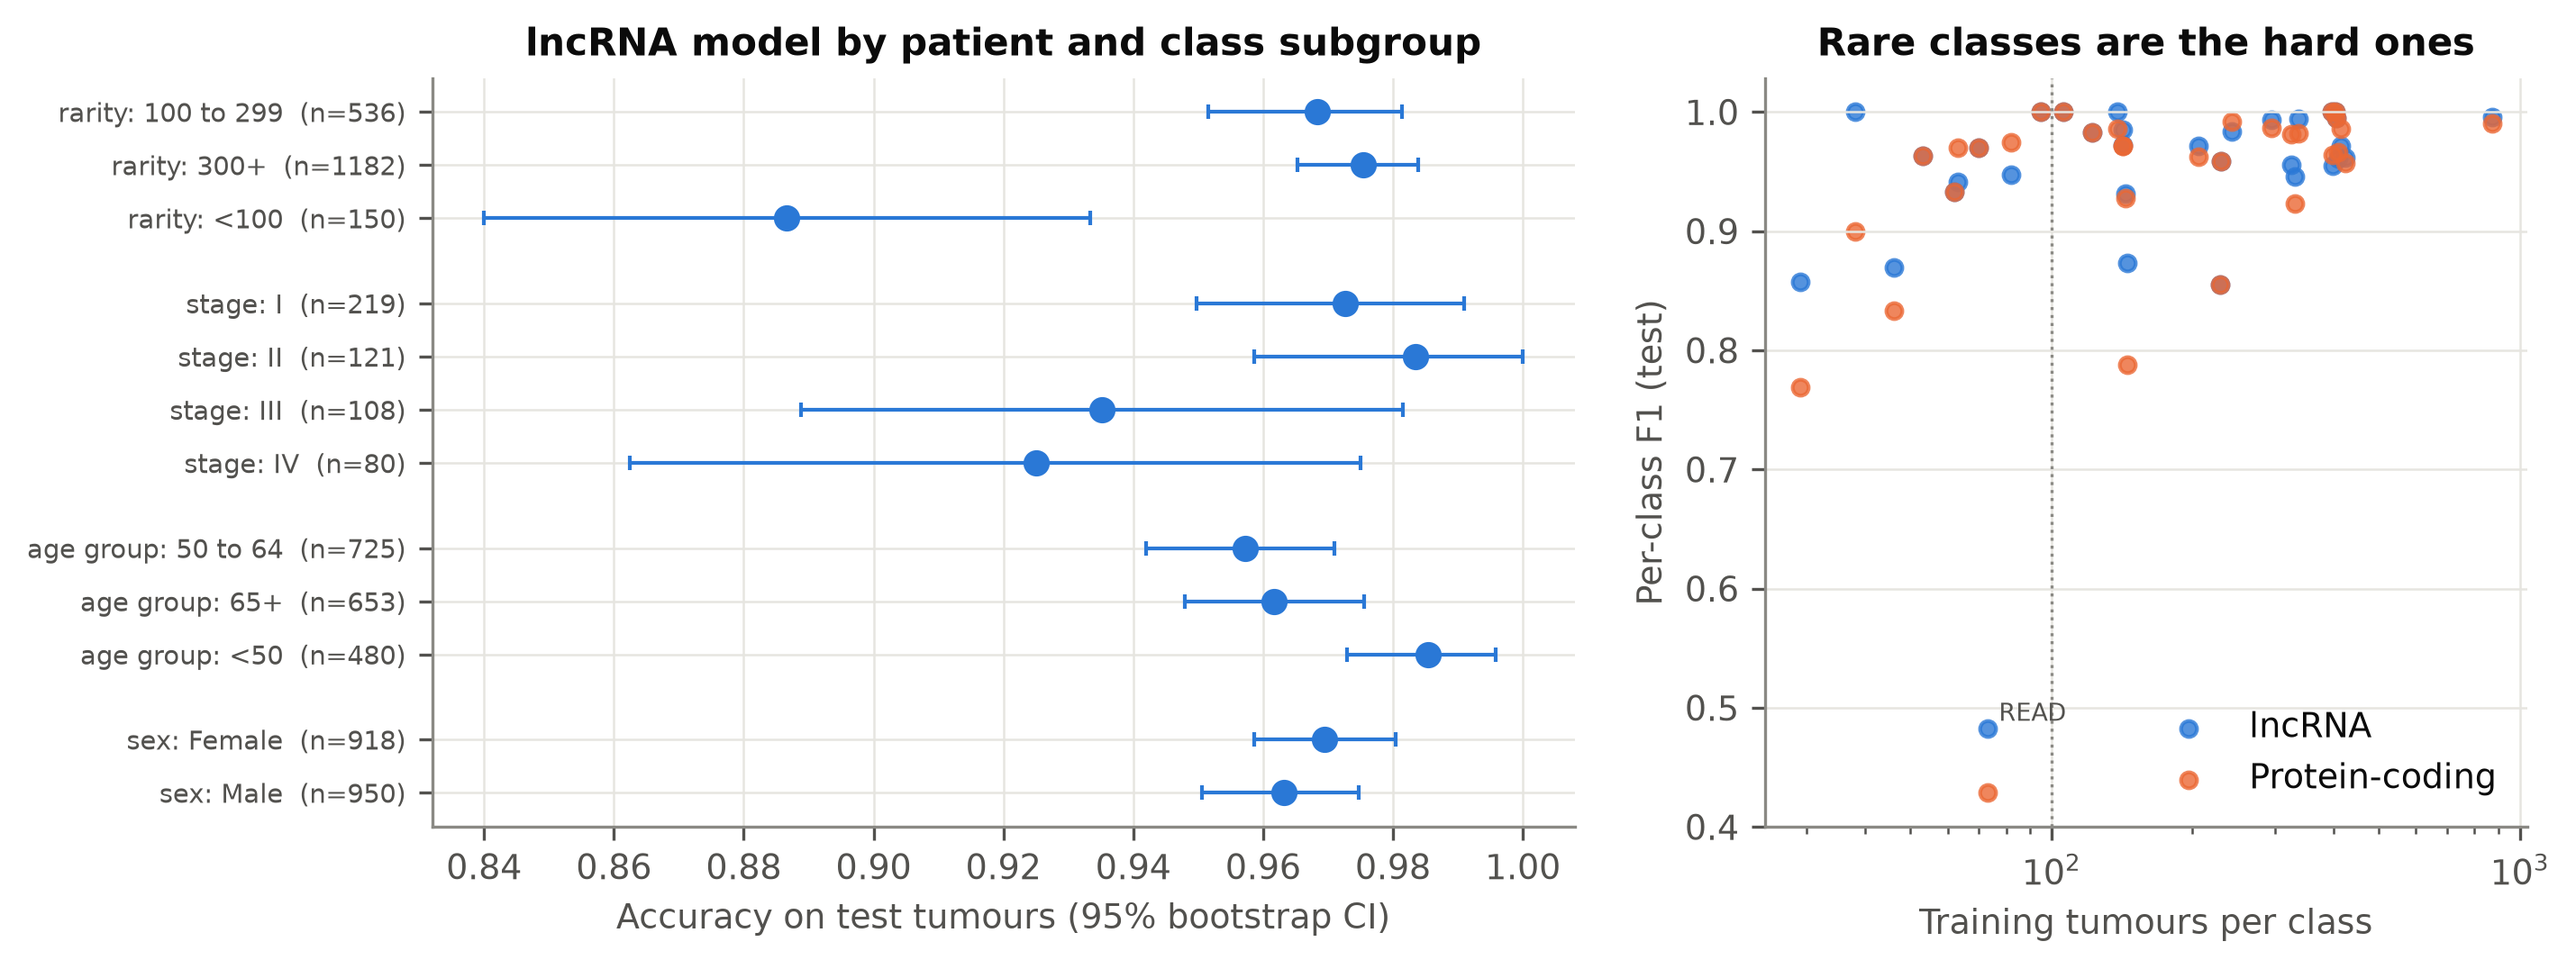
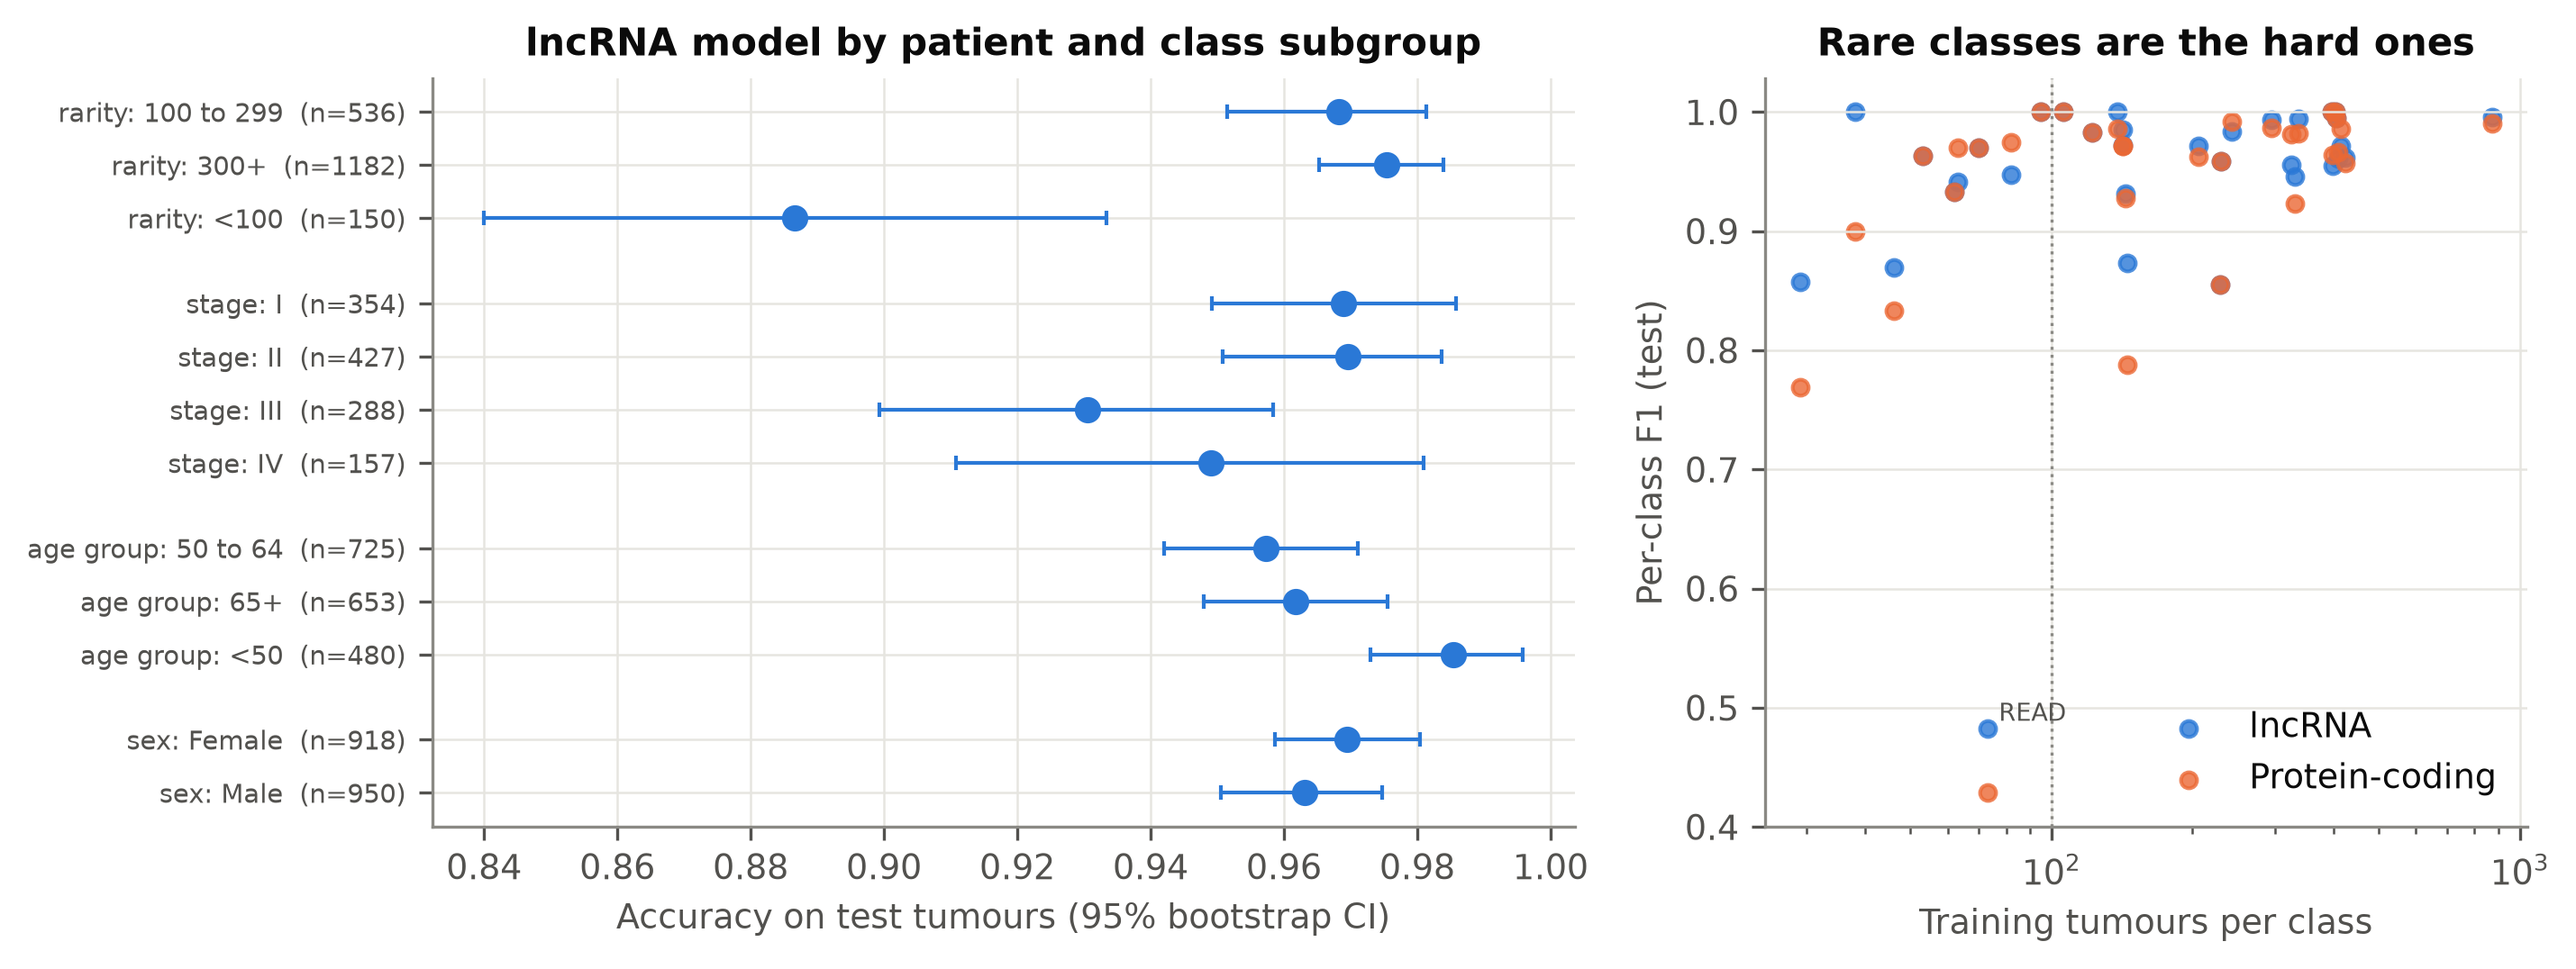
Fix stage parsing that dropped sub-staged tumours; correct the MET500 comparison
"Stage IIIA" and similar failed the old pattern, so only 528 of 1,868 test tumours had a
stage. With 1,226 parsed, stage III is 0.931 and stage IV 0.949 (was 0.935 and 0.925).
The MET500 paragraph compared against macro-F1 and the lncRNA top-3; the coding model's
own test accuracy is 96% (top-3 99.5%).

diff --git a/scripts/09_subgroups.py b/scripts/09_subgroups.py
@@ -45,9 +45,14 @@ def read_clinical(path) -> pd.DataFrame:
     clin["age_group"] = pd.cut(
         clin["age_at_initial_pathologic_diagnosis"], AGE_BINS, labels=AGE_LABELS, right=False
     ).astype(object)
-    stage = clin["ajcc_pathologic_tumor_stage"].astype(str).str.extract(r"Stage (IV|III|II|I)\b")[0]
+    stage = parse_stage(clin["ajcc_pathologic_tumor_stage"])
     clin["stage"] = stage.fillna("Not reported")
     return clin[["sex", "age_group", "stage"]]
+
+
+def parse_stage(raw: pd.Series) -> pd.Series:
+    """'Stage IIIA' -> 'III'; sub-stages collapse to their main stage, anything else is NaN."""
+    return raw.astype(str).str.extract(r"^Stage (IV|III|II|I)[ABC]?\d?$")[0]
 
 
 def group_metrics(y: np.ndarray, proba: np.ndarray, n_classes: int, seed: int) -> dict[str, float]:

diff --git a/tests/test_subgroups.py b/tests/test_subgroups.py
@@ -1,0 +1,20 @@
+import importlib.util
+from pathlib import Path
+
+import pandas as pd
+
+spec = importlib.util.spec_from_file_location(
+    "subgroups", Path(__file__).parents[1] / "scripts" / "09_subgroups.py"
+)
+subgroups = importlib.util.module_from_spec(spec)
+spec.loader.exec_module(subgroups)
+
+
+def test_sub_stages_collapse_to_main_stage():
+    raw = pd.Series(["Stage I", "Stage IIIA", "Stage IVB", "Stage IIC", "Stage IA"])
+    assert subgroups.parse_stage(raw).tolist() == ["I", "III", "IV", "II", "I"]
+
+
+def test_non_stages_are_missing():
+    raw = pd.Series(["Stage X", "Stage 0", "IS", "I/II NOS", "[Discrepancy]", None])
+    assert subgroups.parse_stage(raw).isna().all()

diff --git a/MODEL_CARD.md b/MODEL_CARD.md
@@ -35,15 +35,15 @@ Research prototype. Not a medical device and not validated for clinical use.
 | Age under 50 | 480 | 0.985 (0.973 to 0.996) | 0.012 |
 | Age 50 to 64 | 725 | 0.957 (0.942 to 0.971) | 0.015 |
 | Age 65 and over | 653 | 0.962 (0.948 to 0.975) | 0.016 |
-| AJCC stage I | 219 | 0.973 (0.950 to 0.991) | 0.017 |
-| AJCC stage II | 121 | 0.983 (0.959 to 1.000) | 0.014 |
-| AJCC stage III | 108 | 0.935 (0.889 to 0.981) | 0.034 |
-| AJCC stage IV | 80 | 0.925 (0.862 to 0.975) | 0.047 |
+| AJCC stage I | 354 | 0.969 (0.949 to 0.986) | 0.014 |
+| AJCC stage II | 427 | 0.970 (0.951 to 0.984) | 0.020 |
+| AJCC stage III | 288 | 0.931 (0.899 to 0.958) | 0.034 |
+| AJCC stage IV | 157 | 0.949 (0.911 to 0.981) | 0.037 |
 | Class with 300+ training tumours | 1,182 | 0.975 (0.965 to 0.984) | 0.009 |
 | Class with 100 to 299 training tumours | 536 | 0.968 (0.951 to 0.981) | 0.017 |
 | Class with fewer than 100 training tumours | 150 | 0.887 (0.840 to 0.933) | 0.073 |
 
-The clear weakness is rare cancer types: accuracy drops by about nine points and the model is over-confident on them. Late-stage tumours are somewhat harder, with wide intervals. No sex difference is detectable.
+The clear weakness is rare cancer types: accuracy drops by about nine points and the model is over-confident on them. Stage III tumours are somewhat harder (0.931 against 0.97 for stages I and II); stage IV sits in between, with a wide interval. No sex difference is detectable.
 
 ## Unseen sites
 
@@ -86,7 +86,7 @@ An empty set is an abstention; among non-empty LAC sets at α = 0.10, 98.8% cont
 - Cancers of the same organ (colon vs rectum, oesophagus vs stomach) are not reliably separated; this reflects biology as much as the model.
 - Coverage guarantees assume test data are exchangeable with the calibration data, which the metastases result shows does not hold under shift.
 - Random test splits share hospital sites with the training data; the held-out-site estimate above is the one to quote for a new centre.
-- Clinical metadata used for subgroups are missing for many patients (stage for 1,340 of 1,868 test tumours).
+- Clinical metadata used for subgroups are missing for many patients (stage for 642 of 1,868 test tumours).
 
 ## Intended use
 

diff --git a/README.md b/README.md
@@ -201,7 +201,8 @@ uses these thresholds.
 ![conformal](results/figures/fig8_conformal.png)
 
 **Subgroups** (`scripts/09_subgroups.py`). Accuracy is the same for women and men and across
-age groups. It is lower for stage III and IV tumours (0.935 and 0.925, wide intervals) and
+age groups. It is lower for stage III and IV tumours (0.931 and 0.949, against 0.969 and 0.970
+for stages I and II; intervals overlap) and
 clearly lower for cancer types with fewer than 100 training tumours: 0.887 against 0.975 for
 types with 300 or more, with an expected calibration error of 0.073 against 0.009. Rare
 classes are where the model is both less accurate and over-confident.
@@ -236,13 +237,13 @@ of batch effects.
 holds RNA-seq of 437 patients' metastatic biopsies with the primary site recorded, from
 another institution, with capture and poly-A libraries and FPKM quantification. Its public
 matrix contains none of the 14,043 lncRNAs in this project's universe, so the lncRNA model
-cannot be tested on it: given no informative input, its conformal sets are all empty, which
-is the intended behaviour, and its top-1 accuracy is at chance. The protein-coding model,
+cannot be tested on it: with every lncRNA missing its input carries no information, its
+conformal sets are all empty and its top-1 accuracy is at chance. The protein-coding model,
 with 18,196 of its 18,907 genes present, recovers the primary site of 66% of patients
-(95% CI 61 to 71%) and places it in the top three for 82%, against 93% and 99.6% on the
+(95% CI 61 to 71%) and places it in the top three for 82%, against 96% and 99.5% on the
 TCGA test split. Poly-A and capture libraries score alike (67% and 63%). Two lessons: a
 lncRNA classifier is only usable where the quantification pipeline reports lncRNAs, and an
-independent metastatic cohort costs the coding model about a quarter of its accuracy.
+independent metastatic cohort costs the coding model about a third of its accuracy.
 
 ![met500](results/figures/fig12_met500.png)
 

diff --git a/CHANGELOG.md b/CHANGELOG.md
@@ -2,6 +2,8 @@
 
 ## Unreleased
 
+- Fix: AJCC stage parsing dropped every sub-staged tumour ("Stage IIIA" and so on), leaving 528 of 1,868 test tumours with a stage instead of 1,226. Subgroup table, figure and model card regenerated; stage III remains the hardest (0.931), stage IV is 0.949, not 0.925. `parse_stage` is now tested.
+- README: MET500 comparison now quotes the coding model's own test accuracy (96%, top-3 99.5%), so the external cohort costs about a third of its accuracy, not a quarter.
 - Immune and stromal admixture (`scripts/17_microenvironment.py`, `make microenv`): test-set errors are not enriched in stroma- or immune-rich tumours and confidence barely depends on either; 17 of 330 top markers track the micro-environment within their type, and one thymoma marker (*TRBV11-2*) is a T-cell receptor segment typed lincRNA in GENCODE v23.
 
 ## 0.5.0 (2026-09-29)
